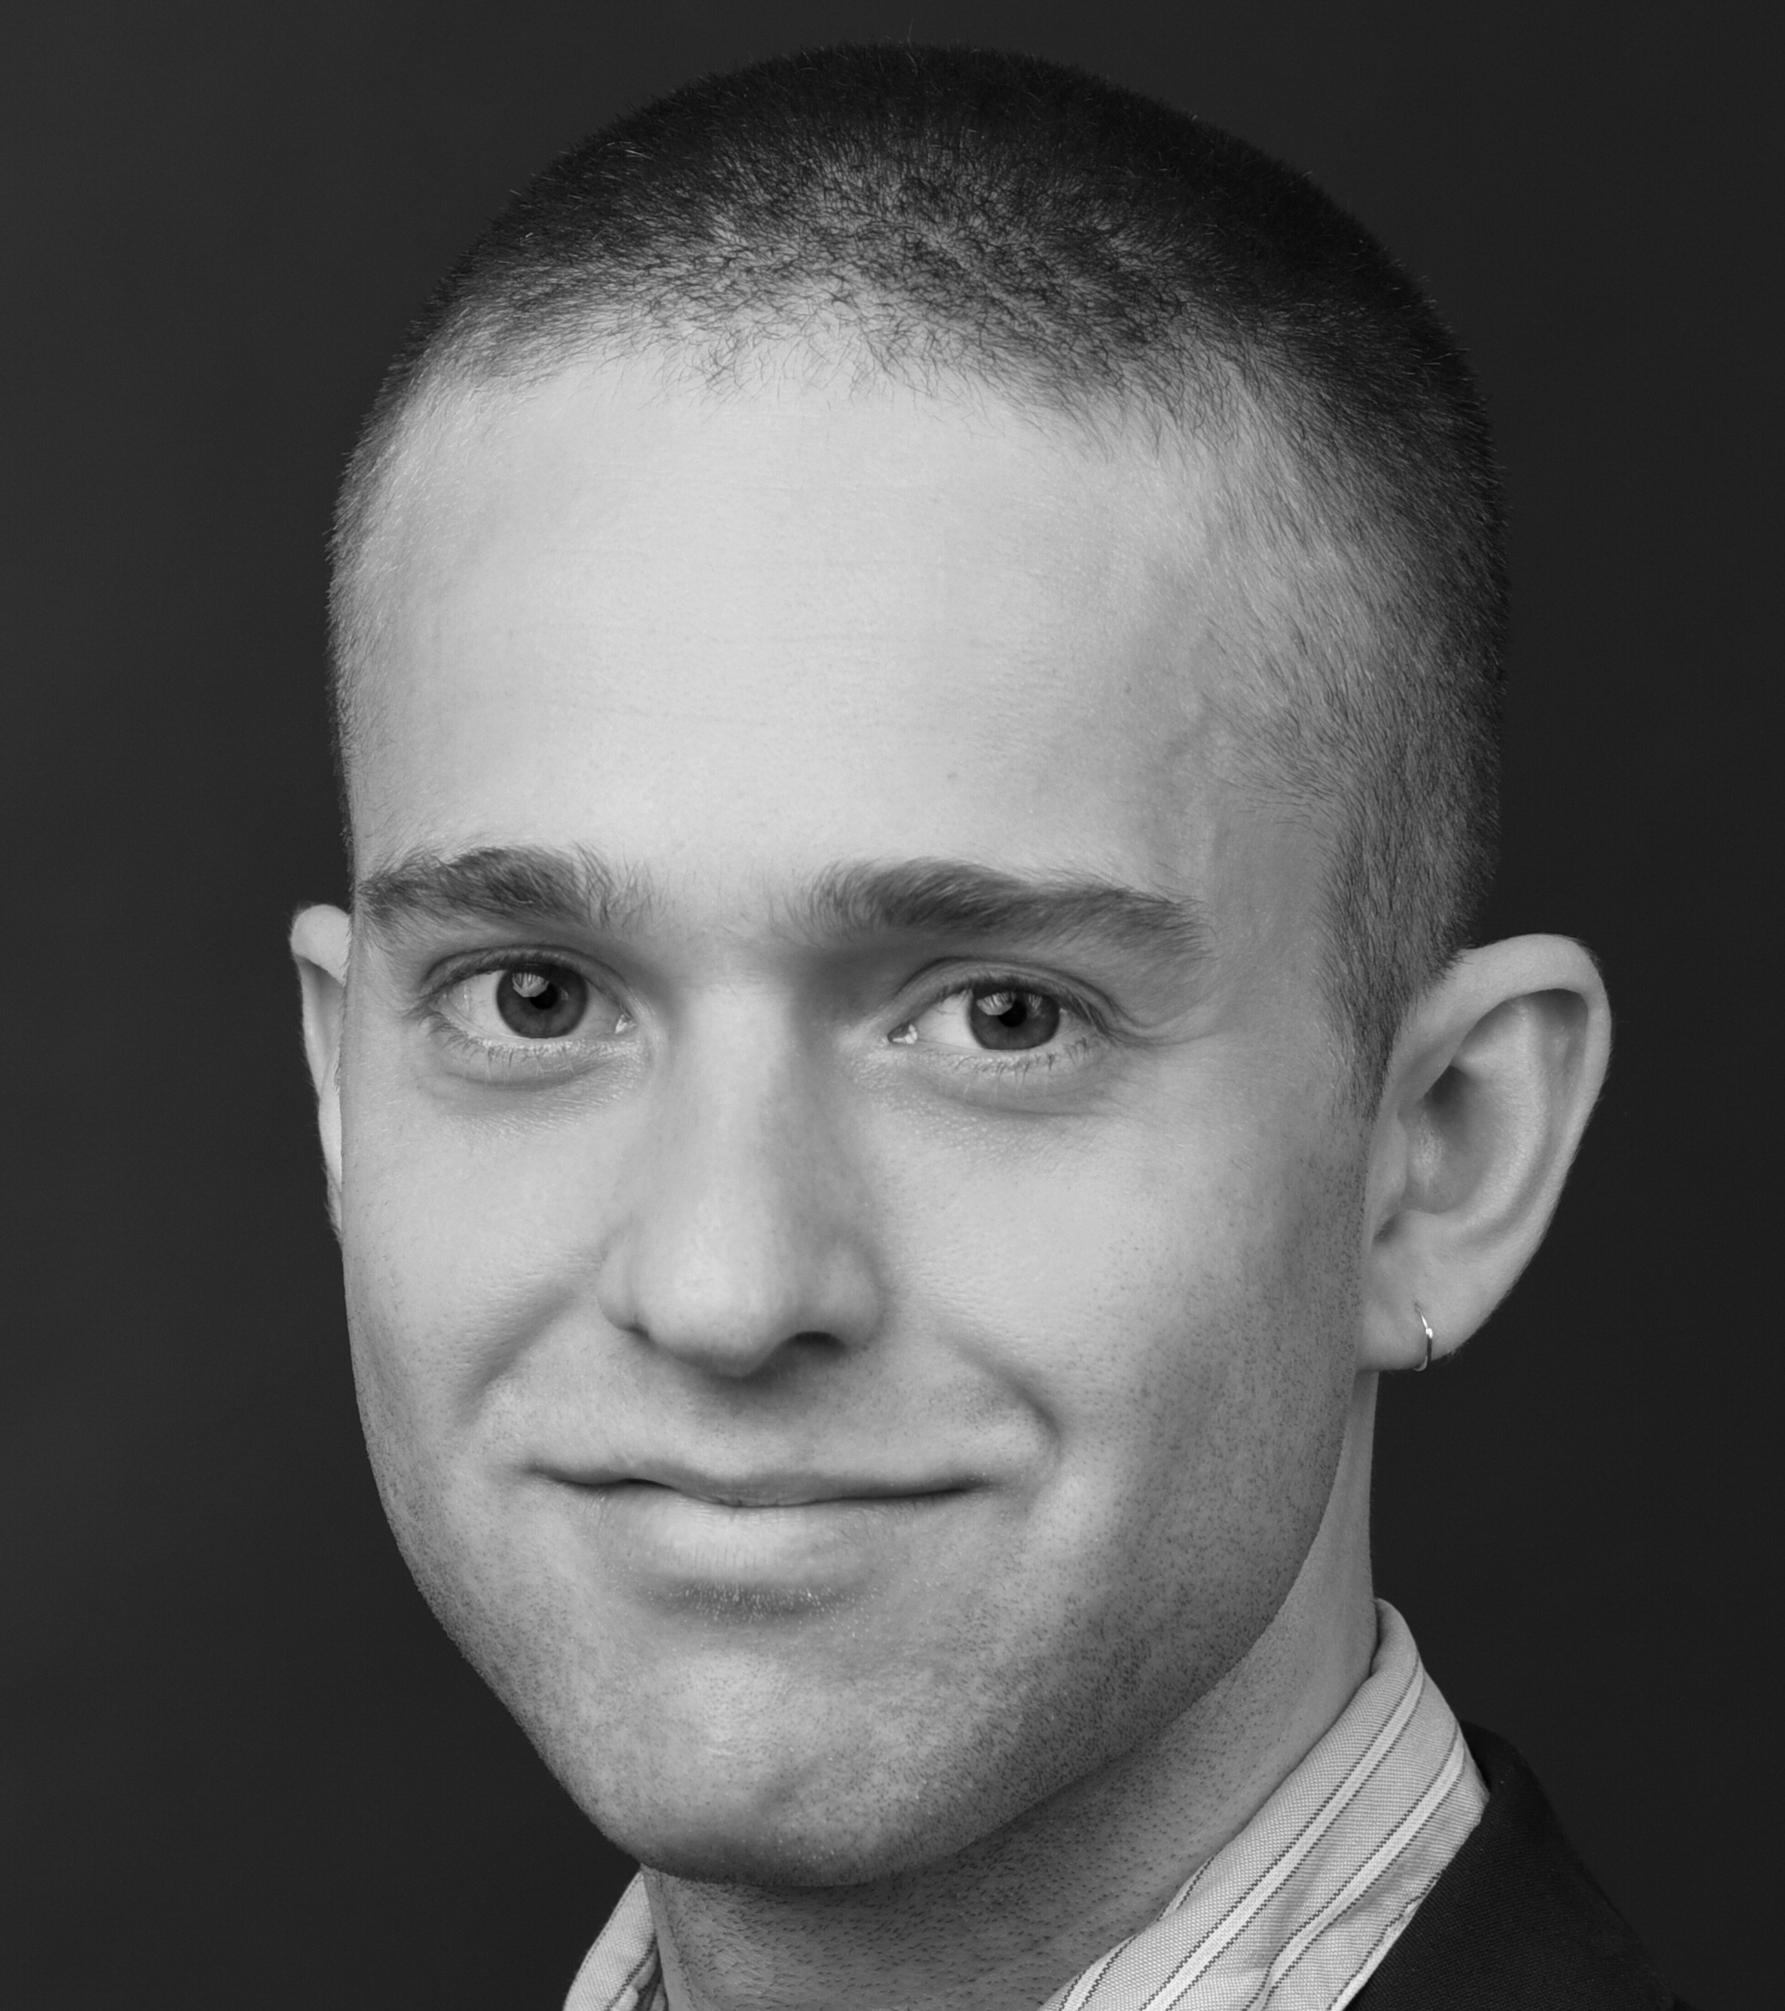
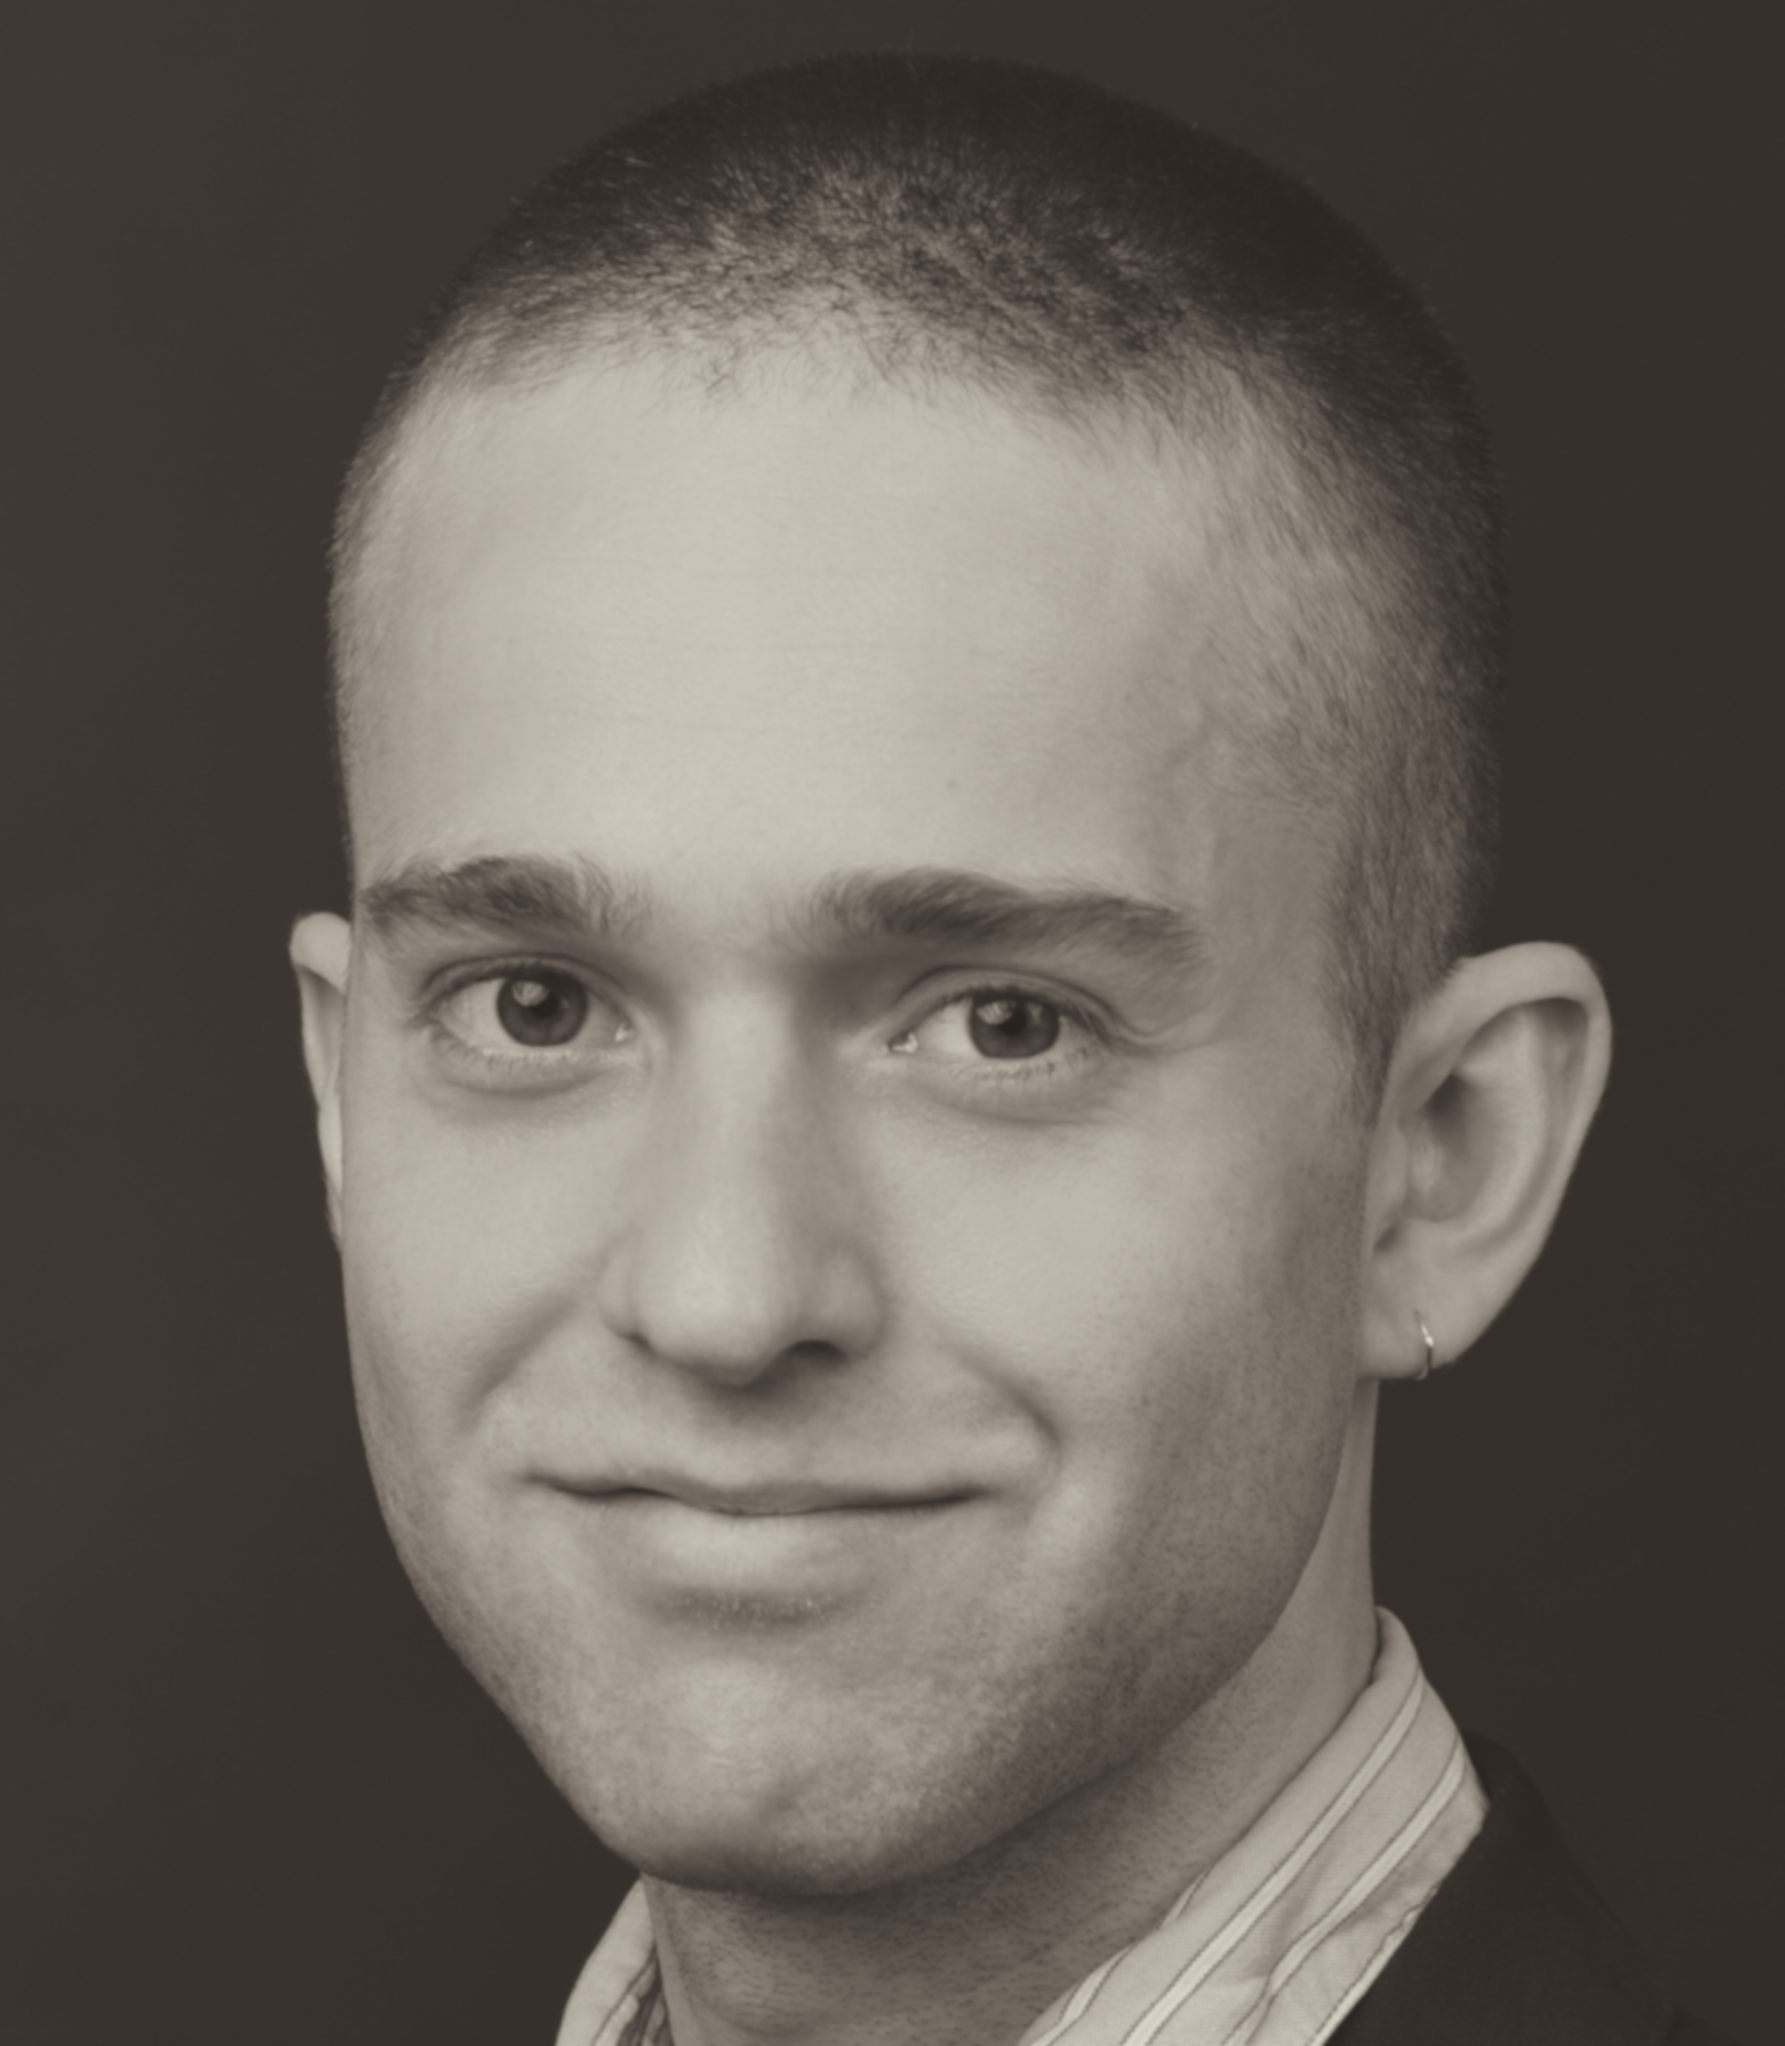
new

diff --git a/author/index.html b/author/index.html
@@ -304,8 +304,8 @@
   <meta property="og:site_name" content="jorge de la cal medina" />
   <meta property="og:url" content="https://jorgedelacalmedina.github.io/author/" />
   <meta property="og:title" content="jorge de la cal medina" />
-  <meta property="og:description" content="" /><meta property="og:image" content="https://jorgedelacalmedina.github.io/author/avatar_hu37fb86c369d8998ca0e188c627330600_1774278_270x270_fill_q75_lanczos_center.jpg" />
-    <meta property="twitter:image" content="https://jorgedelacalmedina.github.io/author/avatar_hu37fb86c369d8998ca0e188c627330600_1774278_270x270_fill_q75_lanczos_center.jpg" /><meta property="og:locale" content="en-us" />
+  <meta property="og:description" content="" /><meta property="og:image" content="https://jorgedelacalmedina.github.io/author/avatar_hu37fb86c369d8998ca0e188c627330600_1090070_270x270_fill_q75_lanczos_center.jpg" />
+    <meta property="twitter:image" content="https://jorgedelacalmedina.github.io/author/avatar_hu37fb86c369d8998ca0e188c627330600_1090070_270x270_fill_q75_lanczos_center.jpg" /><meta property="og:locale" content="en-us" />
   
     
       <meta property="og:updated_time" content="2020-12-13T00:00:00&#43;00:00" />
@@ -633,7 +633,7 @@
       
       <img class="avatar avatar-circle"
            width="270" height="270"
-           src="/author/avatar_hu37fb86c369d8998ca0e188c627330600_1774278_270x270_fill_q75_lanczos_center.jpg" alt="">
+           src="/author/avatar_hu37fb86c369d8998ca0e188c627330600_1090070_270x270_fill_q75_lanczos_center.jpg" alt="">
       
 
       <div class="portrait-title">

diff --git a/post/writing-technical-content/index.html b/post/writing-technical-content/index.html
@@ -761,7 +761,7 @@ data.head()
 <p>Demo:</p>
 
 
-<div id="chart-473162985" class="chart"></div>
+<div id="chart-431659872" class="chart"></div>
 <script>
   (function() {
     let a = setInterval( function() {
@@ -771,7 +771,7 @@ data.head()
       clearInterval( a );
 
       Plotly.d3.json("./line-chart.json", function(chart) {
-        Plotly.plot('chart-473162985', chart.data, chart.layout, {responsive: true});
+        Plotly.plot('chart-431659872', chart.data, chart.layout, {responsive: true});
       });
     }, 500 );
   })();
@@ -1115,7 +1115,7 @@ You found me!
   <div class="media author-card content-widget-hr">
     
       
-      <a href="https://jorgedelacalmedina.github.io/"><img class="avatar mr-3 avatar-circle" src="/author/avatar_hu37fb86c369d8998ca0e188c627330600_1774278_270x270_fill_q75_lanczos_center.jpg" alt=""></a>
+      <a href="https://jorgedelacalmedina.github.io/"><img class="avatar mr-3 avatar-circle" src="/author/avatar_hu37fb86c369d8998ca0e188c627330600_1090070_270x270_fill_q75_lanczos_center.jpg" alt=""></a>
     
 
     <div class="media-body">

diff --git a/project/causal-models-and-external-validity-of-randomized-experiments/index.html b/project/causal-models-and-external-validity-of-randomized-experiments/index.html
@@ -890,7 +890,7 @@ It is further argued that scientists, when conducting randomized experiments to 
   <div class="media author-card content-widget-hr">
     
       
-      <a href="https://jorgedelacalmedina.github.io/"><img class="avatar mr-3 avatar-circle" src="/author/avatar_hu37fb86c369d8998ca0e188c627330600_1774278_270x270_fill_q75_lanczos_center.jpg" alt=""></a>
+      <a href="https://jorgedelacalmedina.github.io/"><img class="avatar mr-3 avatar-circle" src="/author/avatar_hu37fb86c369d8998ca0e188c627330600_1090070_270x270_fill_q75_lanczos_center.jpg" alt=""></a>
     
 
     <div class="media-body">

diff --git a/project/the-effects-of-universal-basic-income-on-labour-force-participation-a-meta-analysis/index.html b/project/the-effects-of-universal-basic-income-on-labour-force-participation-a-meta-analysis/index.html
@@ -892,7 +892,7 @@ The results of our meta-analyses indicate a negative effect of UBI-like interven
   <div class="media author-card content-widget-hr">
     
       
-      <a href="https://jorgedelacalmedina.github.io/"><img class="avatar mr-3 avatar-circle" src="/author/avatar_hu37fb86c369d8998ca0e188c627330600_1774278_270x270_fill_q75_lanczos_center.jpg" alt=""></a>
+      <a href="https://jorgedelacalmedina.github.io/"><img class="avatar mr-3 avatar-circle" src="/author/avatar_hu37fb86c369d8998ca0e188c627330600_1090070_270x270_fill_q75_lanczos_center.jpg" alt=""></a>
     
 
     <div class="media-body">

diff --git a/project/analysis-of-testing-based-model-selection-with-graphical-considerations/index.html b/project/analysis-of-testing-based-model-selection-with-graphical-considerations/index.html
@@ -897,7 +897,7 @@ an empirical example</p>
   <div class="media author-card content-widget-hr">
     
       
-      <a href="https://jorgedelacalmedina.github.io/"><img class="avatar mr-3 avatar-circle" src="/author/avatar_hu37fb86c369d8998ca0e188c627330600_1774278_270x270_fill_q75_lanczos_center.jpg" alt=""></a>
+      <a href="https://jorgedelacalmedina.github.io/"><img class="avatar mr-3 avatar-circle" src="/author/avatar_hu37fb86c369d8998ca0e188c627330600_1090070_270x270_fill_q75_lanczos_center.jpg" alt=""></a>
     
 
     <div class="media-body">

diff --git a/post/jupyter/index.html b/post/jupyter/index.html
@@ -927,7 +927,7 @@ date: 2019-09-01
   <div class="media author-card content-widget-hr">
     
       
-      <a href="https://jorgedelacalmedina.github.io/"><img class="avatar mr-3 avatar-circle" src="/author/avatar_hu37fb86c369d8998ca0e188c627330600_1774278_270x270_fill_q75_lanczos_center.jpg" alt=""></a>
+      <a href="https://jorgedelacalmedina.github.io/"><img class="avatar mr-3 avatar-circle" src="/author/avatar_hu37fb86c369d8998ca0e188c627330600_1090070_270x270_fill_q75_lanczos_center.jpg" alt=""></a>
     
 
     <div class="media-body">

diff --git a/publication/conference-paper/index.html b/publication/conference-paper/index.html
@@ -1031,7 +1031,7 @@
   <div class="media author-card content-widget-hr">
     
       
-      <a href="https://jorgedelacalmedina.github.io/"><img class="avatar mr-3 avatar-circle" src="/author/avatar_hu37fb86c369d8998ca0e188c627330600_1774278_270x270_fill_q75_lanczos_center.jpg" alt=""></a>
+      <a href="https://jorgedelacalmedina.github.io/"><img class="avatar mr-3 avatar-circle" src="/author/avatar_hu37fb86c369d8998ca0e188c627330600_1090070_270x270_fill_q75_lanczos_center.jpg" alt=""></a>
     
 
     <div class="media-body">

diff --git a/publication/preprint/index.html b/publication/preprint/index.html
@@ -1008,7 +1008,7 @@
   <div class="media author-card content-widget-hr">
     
       
-      <a href="https://jorgedelacalmedina.github.io/"><img class="avatar mr-3 avatar-circle" src="/author/avatar_hu37fb86c369d8998ca0e188c627330600_1774278_270x270_fill_q75_lanczos_center.jpg" alt=""></a>
+      <a href="https://jorgedelacalmedina.github.io/"><img class="avatar mr-3 avatar-circle" src="/author/avatar_hu37fb86c369d8998ca0e188c627330600_1090070_270x270_fill_q75_lanczos_center.jpg" alt=""></a>
     
 
     <div class="media-body">

diff --git a/post/getting-started/index.html b/post/getting-started/index.html
@@ -951,7 +951,7 @@
   <div class="media author-card content-widget-hr">
     
       
-      <a href="https://jorgedelacalmedina.github.io/"><img class="avatar mr-3 avatar-circle" src="/author/avatar_hu37fb86c369d8998ca0e188c627330600_1774278_270x270_fill_q75_lanczos_center.jpg" alt=""></a>
+      <a href="https://jorgedelacalmedina.github.io/"><img class="avatar mr-3 avatar-circle" src="/author/avatar_hu37fb86c369d8998ca0e188c627330600_1090070_270x270_fill_q75_lanczos_center.jpg" alt=""></a>
     
 
     <div class="media-body">

diff --git a/project/a-convolutional-neural-network-to-classify-satellite-imagery/index.html b/project/a-convolutional-neural-network-to-classify-satellite-imagery/index.html
@@ -889,7 +889,7 @@
   <div class="media author-card content-widget-hr">
     
       
-      <a href="https://jorgedelacalmedina.github.io/"><img class="avatar mr-3 avatar-circle" src="/author/avatar_hu37fb86c369d8998ca0e188c627330600_1774278_270x270_fill_q75_lanczos_center.jpg" alt=""></a>
+      <a href="https://jorgedelacalmedina.github.io/"><img class="avatar mr-3 avatar-circle" src="/author/avatar_hu37fb86c369d8998ca0e188c627330600_1090070_270x270_fill_q75_lanczos_center.jpg" alt=""></a>
     
 
     <div class="media-body">

diff --git a/project/collective-mood-states-and-investment-behaviour-during-a-global-pandemic/index.html b/project/collective-mood-states-and-investment-behaviour-during-a-global-pandemic/index.html
@@ -889,7 +889,7 @@
   <div class="media author-card content-widget-hr">
     
       
-      <a href="https://jorgedelacalmedina.github.io/"><img class="avatar mr-3 avatar-circle" src="/author/avatar_hu37fb86c369d8998ca0e188c627330600_1774278_270x270_fill_q75_lanczos_center.jpg" alt=""></a>
+      <a href="https://jorgedelacalmedina.github.io/"><img class="avatar mr-3 avatar-circle" src="/author/avatar_hu37fb86c369d8998ca0e188c627330600_1090070_270x270_fill_q75_lanczos_center.jpg" alt=""></a>
     
 
     <div class="media-body">

diff --git a/publication/journal-article/index.html b/publication/journal-article/index.html
@@ -981,7 +981,7 @@
   <div class="media author-card content-widget-hr">
     
       
-      <a href="https://jorgedelacalmedina.github.io/"><img class="avatar mr-3 avatar-circle" src="/author/avatar_hu37fb86c369d8998ca0e188c627330600_1774278_270x270_fill_q75_lanczos_center.jpg" alt=""></a>
+      <a href="https://jorgedelacalmedina.github.io/"><img class="avatar mr-3 avatar-circle" src="/author/avatar_hu37fb86c369d8998ca0e188c627330600_1090070_270x270_fill_q75_lanczos_center.jpg" alt=""></a>
     
 
     <div class="media-body">
